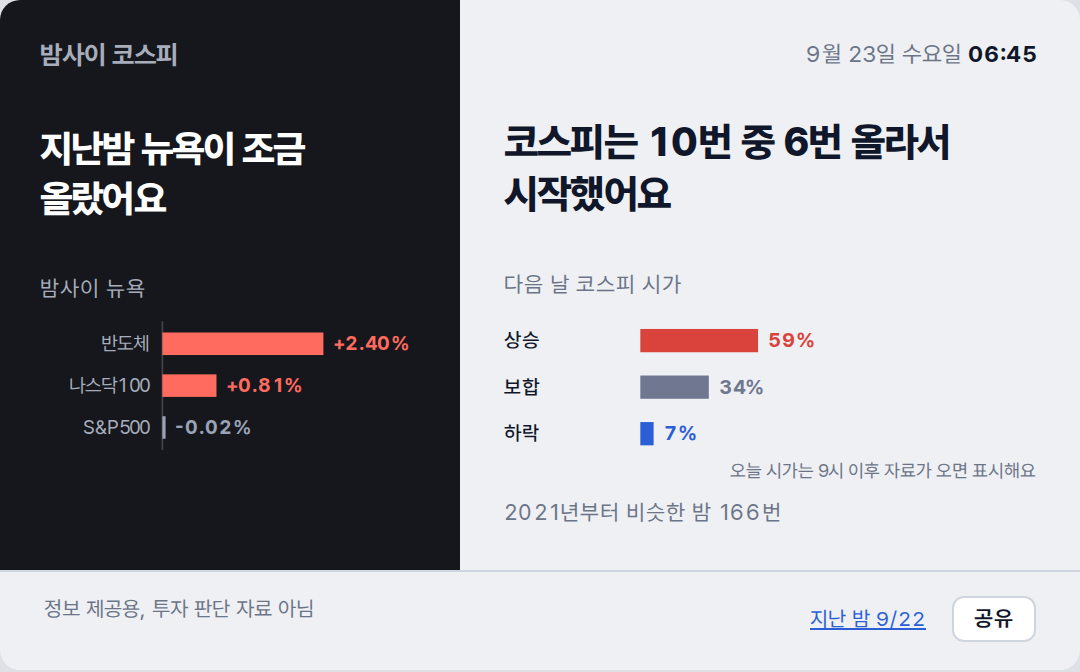
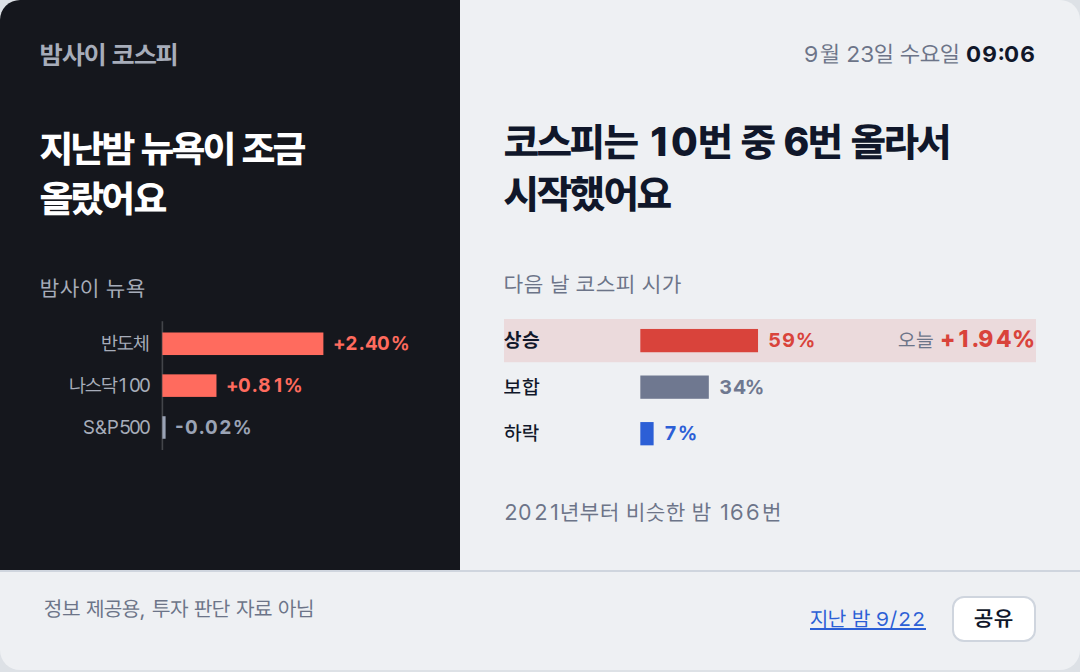
deploy: 1a85871bb5a90ac8edce7000b696d14ea3848dc2

diff --git a/2026-09-23/index.html b/2026-09-23/index.html
@@ -38,17 +38,18 @@ footer a{color:#2C5FD6}
 <rect x="76" y="61" width="2.0" height="14" fill="var(--flat)"/>
 <text x="84.0" y="72" fill="var(--flat)" font-weight="700">-0.02%</text>
 </svg></section>
-<section class="day"><p class="stamp">9월 23일 수요일 <b>06:45</b></p><p class="claim">코스피는 10번 중 6번 올라서 시작했어요</p><p class="lab">다음 날 코스피 시가</p><svg viewBox="0 0 320 100" xmlns="http://www.w3.org/2000/svg" font-family="var(--sans)" font-size="12">
-<text x="0" y="20" fill="var(--ink)" font-weight="500">상승</text>
+<section class="day"><p class="stamp">9월 23일 수요일 <b>09:06</b></p><p class="claim">코스피는 10번 중 6번 올라서 시작했어요</p><p class="lab">다음 날 코스피 시가</p><svg viewBox="0 0 320 100" xmlns="http://www.w3.org/2000/svg" font-family="var(--sans)" font-size="12">
+<rect x="0" y="3" width="320" height="26" fill="var(--up)" opacity=".12"/>
+<text x="0" y="20" fill="var(--ink)" font-weight="700">상승</text>
 <rect x="82" y="9" width="70.8" height="14" fill="var(--up)"/>
 <text x="158.8" y="20" fill="var(--up)" font-weight="700">59%</text>
+<text x="320" y="20" text-anchor="end" fill="var(--ink)"><tspan fill="var(--muted)">오늘 </tspan><tspan font-weight="800" font-size="14" fill="var(--up)">+1.94%</tspan></text>
 <text x="0" y="48" fill="var(--ink)" font-weight="500">보합</text>
 <rect x="82" y="37" width="41.2" height="14" fill="var(--flat)"/>
 <text x="129.2" y="48" fill="var(--flat)" font-weight="700">34%</text>
 <text x="0" y="76" fill="var(--ink)" font-weight="500">하락</text>
 <rect x="82" y="65" width="8.0" height="14" fill="var(--down)"/>
 <text x="96.0" y="76" fill="var(--down)" font-weight="700">7%</text>
-<text x="320" y="98" text-anchor="end" fill="var(--muted)" font-size="11">오늘 시가는 9시 이후 자료가 오면 표시해요</text>
 </svg><p class="cap">2021년부터 비슷한 밤 166번</p></section>
 <footer><span>정보 제공용, 투자 판단 자료 아님</span><span style="white-space:nowrap"><a href="../2026-09-22/">지난 밤 9/22</a> <button class="share" type="button">공유</button></span></footer>
 <script>

diff --git a/index.html b/index.html
@@ -38,17 +38,18 @@ footer a{color:#2C5FD6}
 <rect x="76" y="61" width="2.0" height="14" fill="var(--flat)"/>
 <text x="84.0" y="72" fill="var(--flat)" font-weight="700">-0.02%</text>
 </svg></section>
-<section class="day"><p class="stamp">9월 23일 수요일 <b>06:45</b></p><p class="claim">코스피는 10번 중 6번 올라서 시작했어요</p><p class="lab">다음 날 코스피 시가</p><svg viewBox="0 0 320 100" xmlns="http://www.w3.org/2000/svg" font-family="var(--sans)" font-size="12">
-<text x="0" y="20" fill="var(--ink)" font-weight="500">상승</text>
+<section class="day"><p class="stamp">9월 23일 수요일 <b>09:06</b></p><p class="claim">코스피는 10번 중 6번 올라서 시작했어요</p><p class="lab">다음 날 코스피 시가</p><svg viewBox="0 0 320 100" xmlns="http://www.w3.org/2000/svg" font-family="var(--sans)" font-size="12">
+<rect x="0" y="3" width="320" height="26" fill="var(--up)" opacity=".12"/>
+<text x="0" y="20" fill="var(--ink)" font-weight="700">상승</text>
 <rect x="82" y="9" width="70.8" height="14" fill="var(--up)"/>
 <text x="158.8" y="20" fill="var(--up)" font-weight="700">59%</text>
+<text x="320" y="20" text-anchor="end" fill="var(--ink)"><tspan fill="var(--muted)">오늘 </tspan><tspan font-weight="800" font-size="14" fill="var(--up)">+1.94%</tspan></text>
 <text x="0" y="48" fill="var(--ink)" font-weight="500">보합</text>
 <rect x="82" y="37" width="41.2" height="14" fill="var(--flat)"/>
 <text x="129.2" y="48" fill="var(--flat)" font-weight="700">34%</text>
 <text x="0" y="76" fill="var(--ink)" font-weight="500">하락</text>
 <rect x="82" y="65" width="8.0" height="14" fill="var(--down)"/>
 <text x="96.0" y="76" fill="var(--down)" font-weight="700">7%</text>
-<text x="320" y="98" text-anchor="end" fill="var(--muted)" font-size="11">오늘 시가는 9시 이후 자료가 오면 표시해요</text>
 </svg><p class="cap">2021년부터 비슷한 밤 166번</p></section>
 <footer><span>정보 제공용, 투자 판단 자료 아님</span><span style="white-space:nowrap"><a href="./2026-09-22/">지난 밤 9/22</a> <button class="share" type="button">공유</button></span></footer>
 <script>
